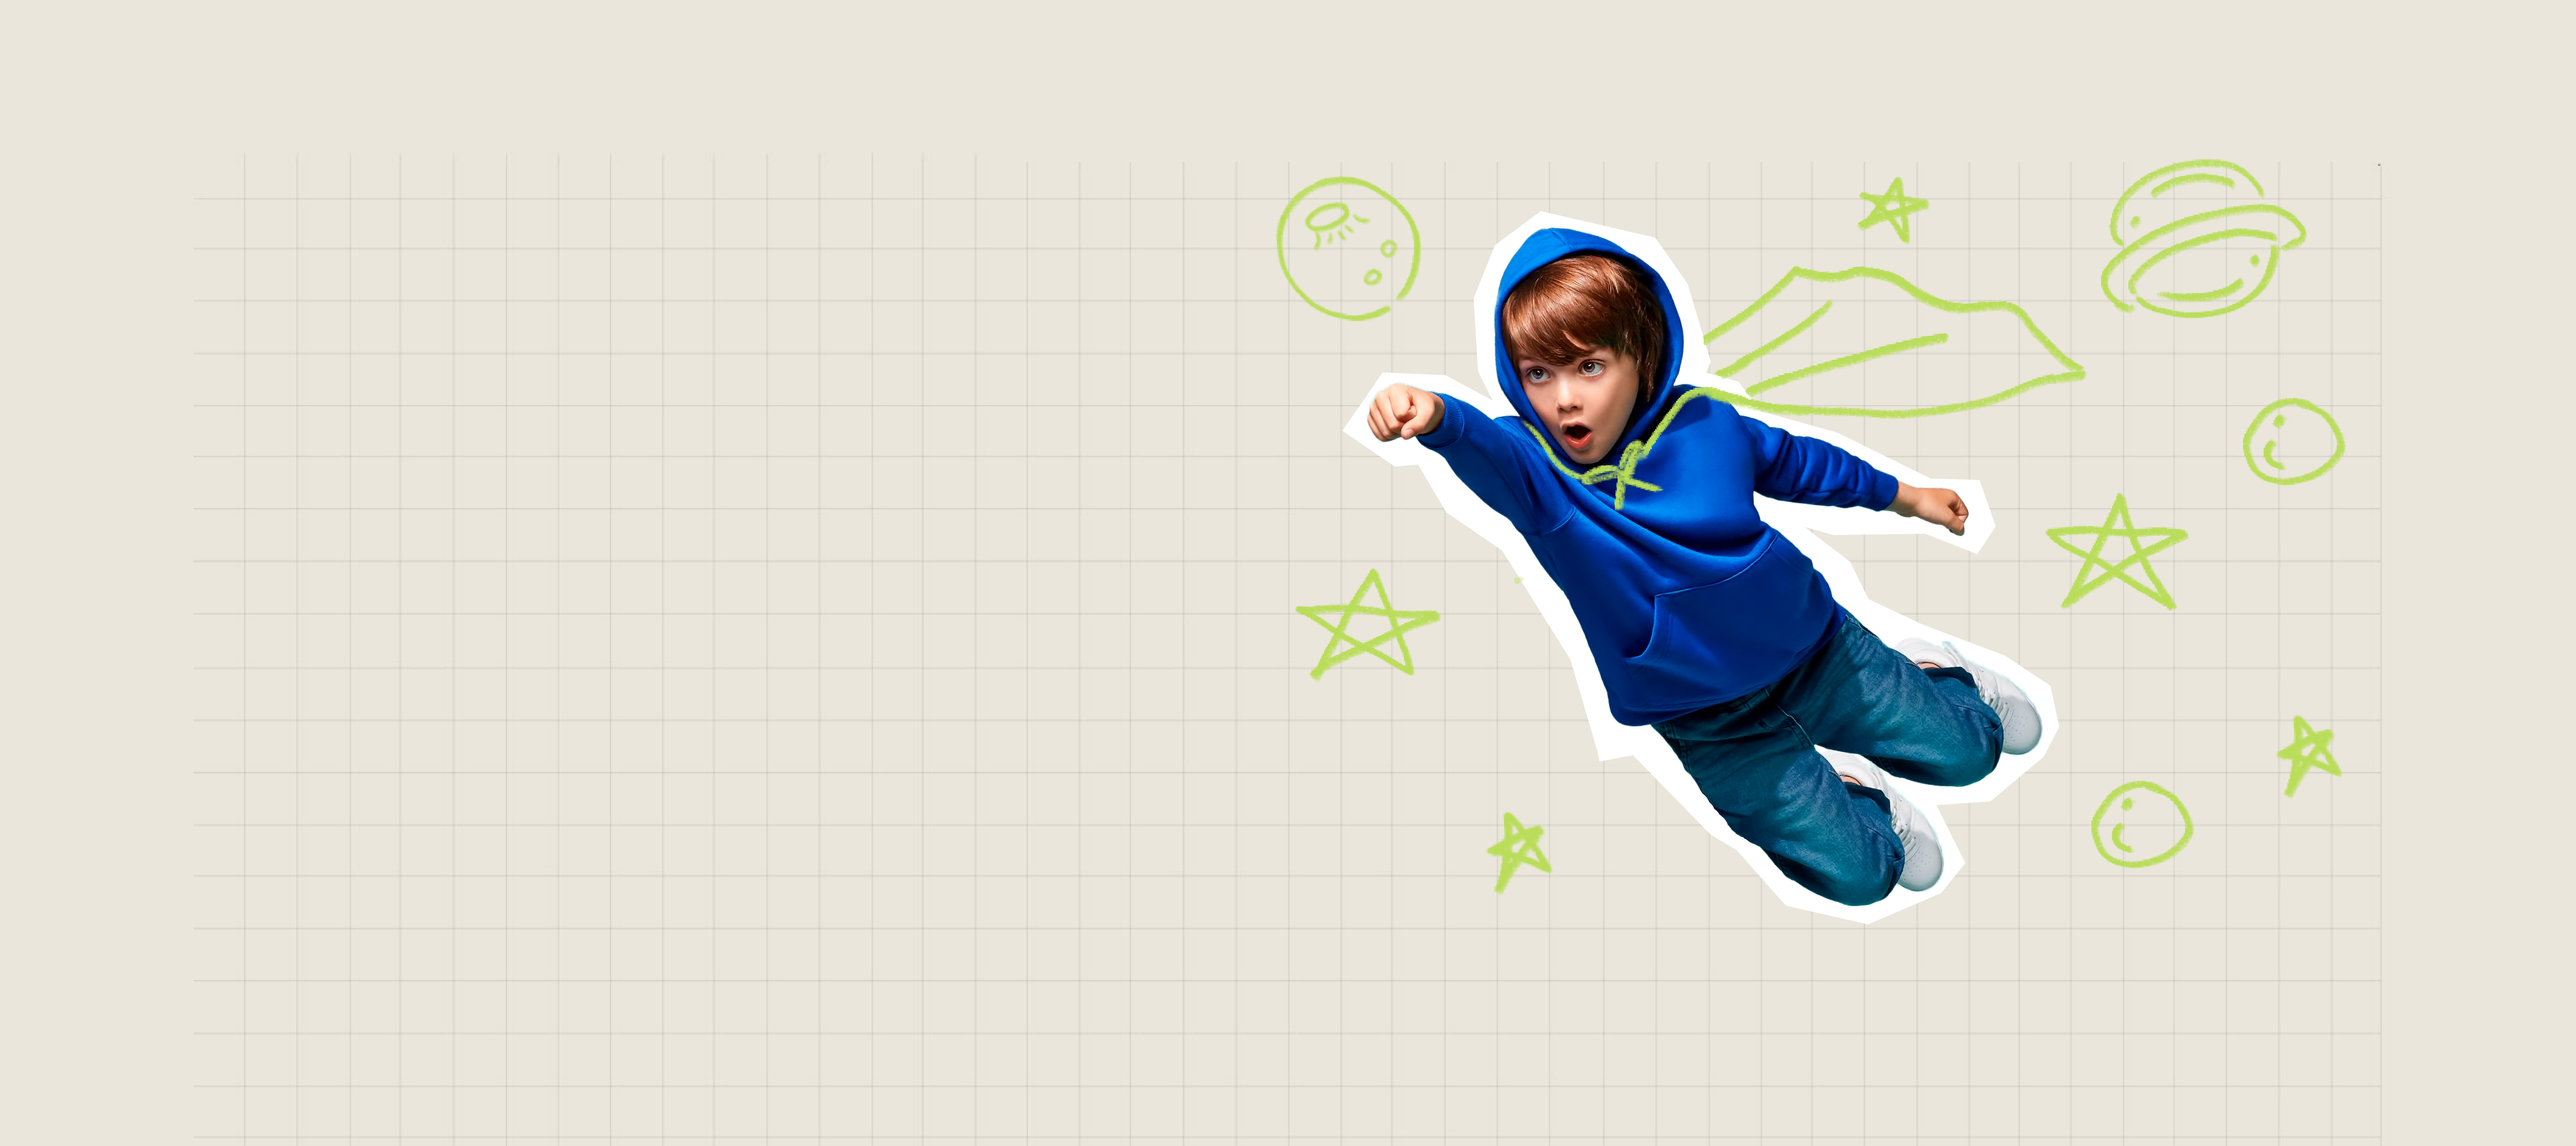
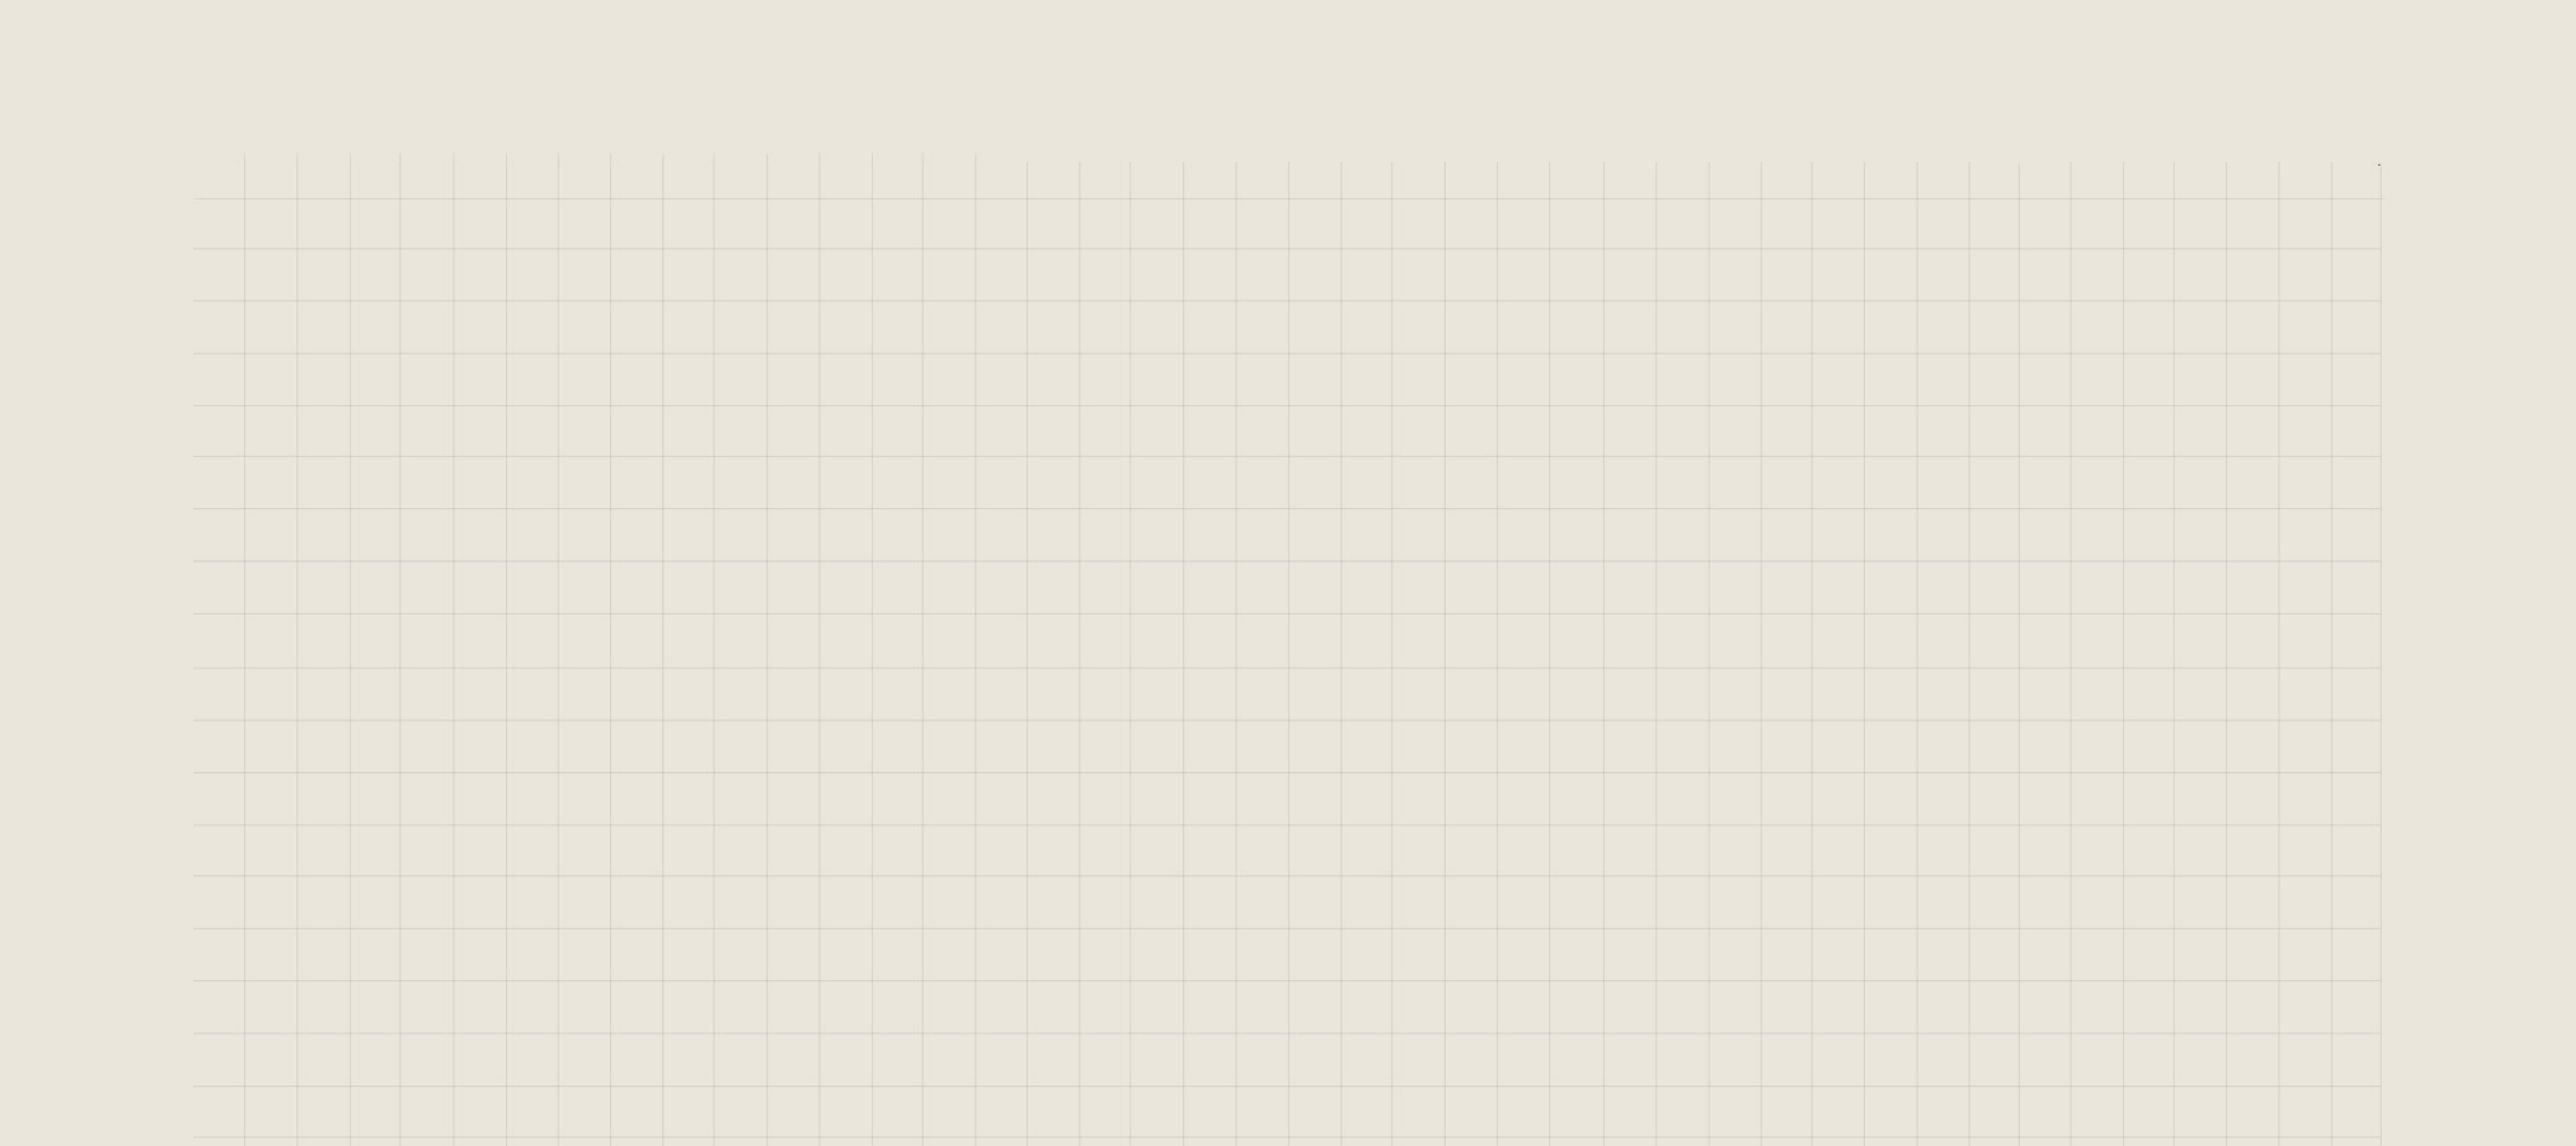
finalizamos hero
hasta acá terminamos con el hero, por ahora...

diff --git a/styles.css b/styles.css
@@ -12,8 +12,10 @@ body {
   font-family: var(--font-family-base);
   color: #212529;
   background-color: #eae6dc;
-  margin: 0;
-  padding: 0;
+  margin-left : 35px;
+  margin-right: 35px;
+  padding: 0px;
+
   scroll-behavior: smooth;
 }
 
@@ -43,7 +45,7 @@ body {
 }
 
 .nav-link:hover {
-  color: var(--primary-color);
+  color: #89c4f1;
 }
 
 /* 4. HERO */
@@ -153,11 +155,12 @@ p {
 	display:inline-block;
 	cursor:pointer;
 	color:#ffffff;
-	font-family:Arial;
+	font-family:coolvetica;
 	font-size:17px;
 	font-weight:bold;
 	padding:10px 25px;
 	text-decoration:none;
+  margin-top: 2rem
 }
 .myButton:hover {
 	
@@ -327,7 +330,7 @@ img.rounded-circle {
 }
 
 .h1-custom {
-  font-size: 60px;
+  font-size: 3.5rem;
   font-weight: 900;
   line-height: 1.1;
   color: #2d2d2d;
@@ -357,18 +360,33 @@ img.rounded-circle {
 
 /* PÁRRAFOS Y TEXTOS */
 
+
+.hero-custom,
 .p-custom,
 .lead-custom {
   /* Aquí aplicamos la fuente para los párrafos y textos */
   font-family: "coolvetica", sans-serif; /* Asegúrate de que "coolvetica" sea el nombre exacto de Adobe Fonts */
   color: #2d2d2d; /* Esta línea ya la tienes */
+   letter-spacing: 0.04em;
 }
 
 
-.p-custom {
-  font-size: 1.9rem;
+
+.hero-custom {
+  font-size: 1.8rem;
+   font-weight: 300;
   color: #2d2d2d;
-  line-height: 1.6;
+  line-height: 0.8;
+}
+
+
+
+
+.p-custom {
+  font-size: 1.4rem;
+   font-weight: 300;
+  color: #2d2d2d;
+  line-height: 0.8;
 }
 
 .lead-custom {

diff --git a/index.html b/index.html
@@ -59,13 +59,13 @@
     <div class="row align-items-center" style="position: relative; z-index: 1;">
         <div class="col-lg-5">
             <h1 class="h1-custom">¡DESCUBRÍ UN NUEVO MUNDO!</h1>
-            <p class="p-custom">Creatividad offline cada dos semanas</p>
+            <p class="hero-custom">Creatividad offline cada dos semanas</p>
             <div class="d-flex gap-3 mt-4">
                 <a href="#" class="myButton">¡Empezar aventura!</a>
                 
             </div>
         </div>
-        <div class="col-lg-7 text-end"> <img src="https://imageplaceholder.net/500x500" class="img-fluid img-rounded" alt="Imagen Hero">
+        <div class="col-lg-7 text-end"> <img src="images/nene vuela.png" class="img-fluid img-rounded" style="max-width: 100%; height: auto;" alt="Imagen Hero">
         </div>
     </div>
 </section>
